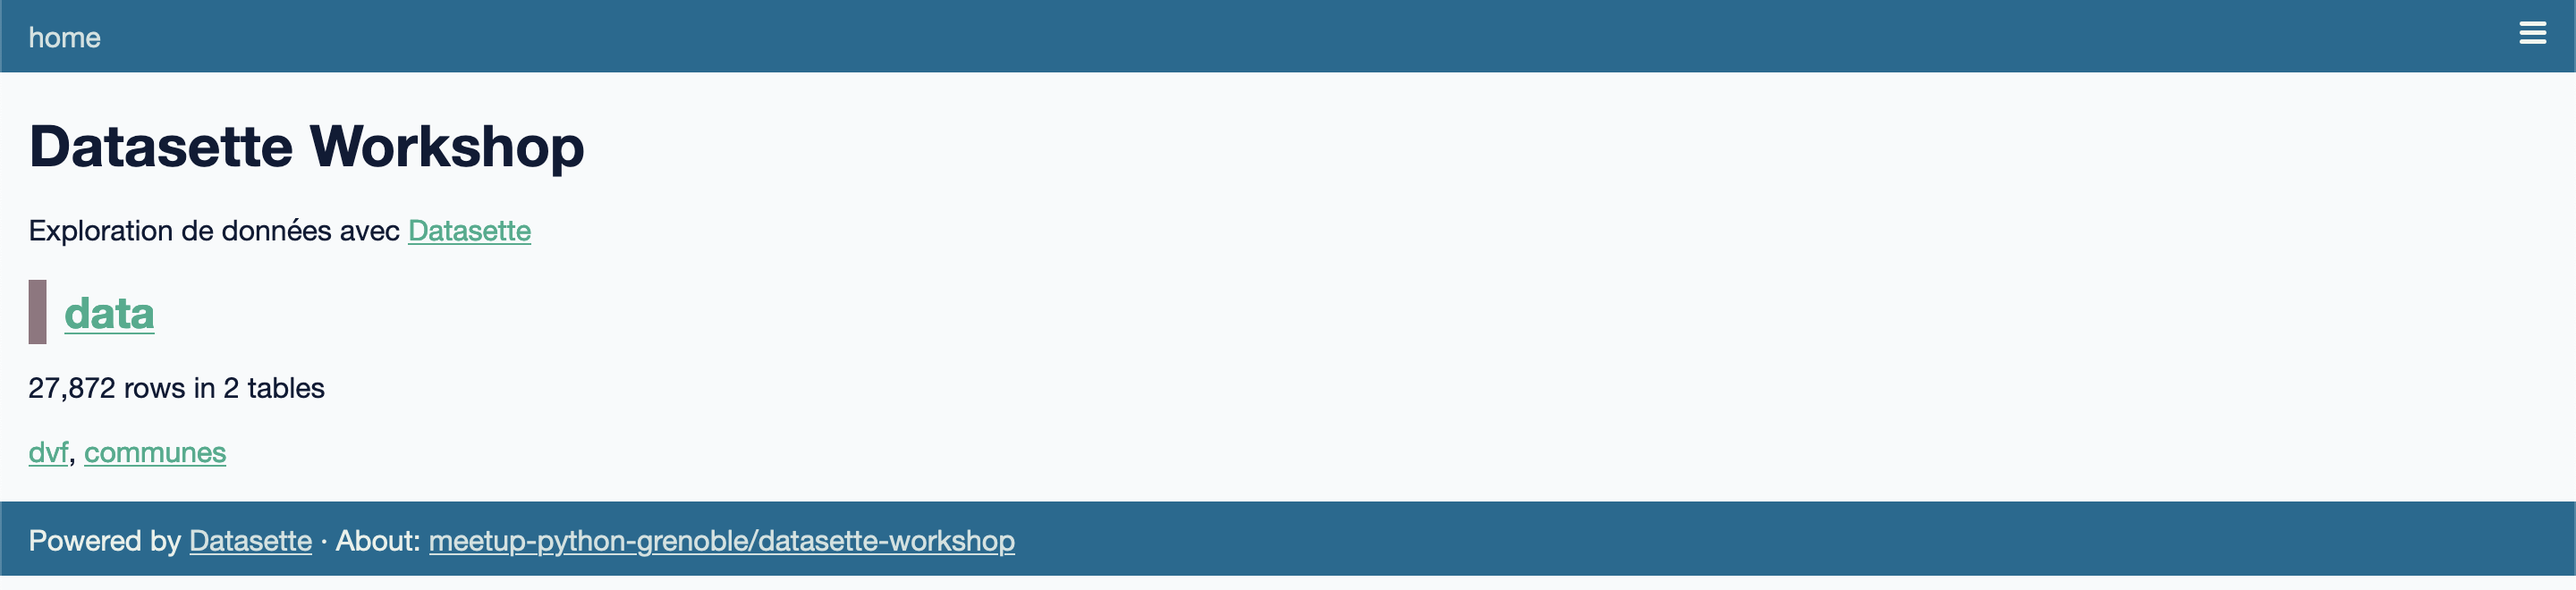
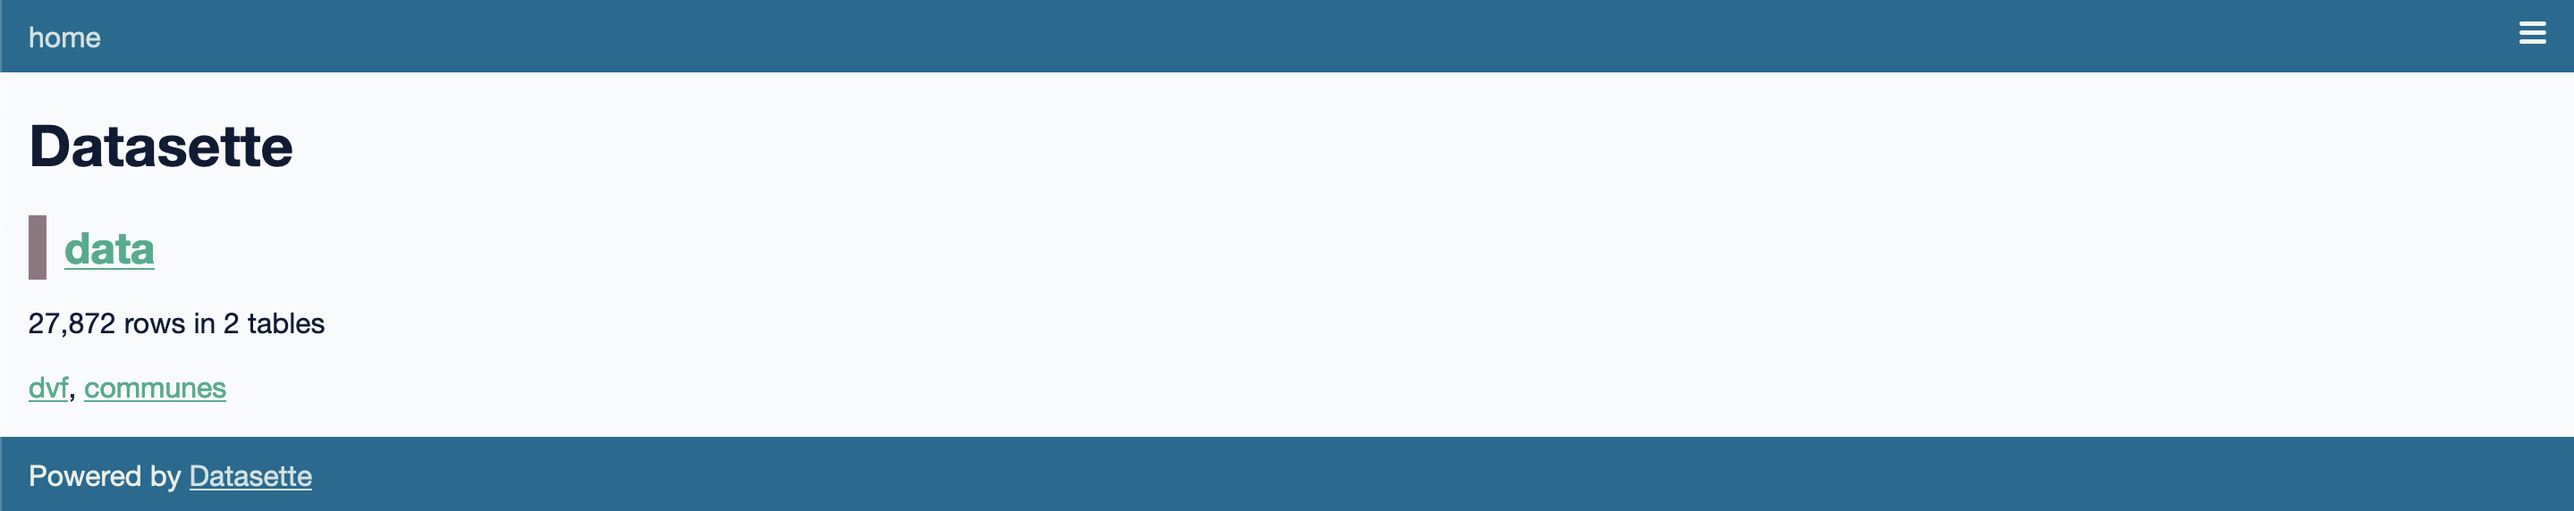
Update overview page

diff --git a/docs/overview.md b/docs/overview.md
@@ -1,4 +1,4 @@
-# Tour d'horizon de Datasette
+# Tour d'horizon
 
 Avant de commencer à analyser des données, prenons quelques minutes pour comprendre comment fonctionne Datasette. Pour obtenir tous les détails d'utilisation de Datasette, veuillez vous référer à la [documentation officielle](https://docs.datasette.io).
 
@@ -37,8 +37,81 @@ Nous utiliserons principalement cette vue pour [l'exploration de données](explo
 
 ## Métadonnées
 
-### Générales
+Datasette est configurable via un fichier de métadonnées au format JSON ou YAML. Pour lancer Datasette avec le fichier de métadonné de l'atelier `metadata.yml` :
 
-### Plugins
+```bash
+datasette --metadata metadata.yml data.db
+```
+
+La page d'accueil de Datasette est maintenant personnalisée :
+
+![Datasette Home](static/datasette_home_metadata.png)
+
+Voici le contenu du fichier `metadata.yml` permettant de personnaliser la page d'accueil :
+
+```yaml
+title: Datasette Workshop
+about: meetup-python-grenoble/datasette-workshop
+about_url: https://github.com/meetup-python-grenoble/datasette-workshop
+description_html: |-
+  Exploration de données avec <a href="https://datasette.io">Datasette</a>
+```
+
+Il est également possible d'annoter la base de données avec les sources et licences des données sous-jacentes :
+
+![Datasette Table](static/datasette_table_metadata.png)
+
+En ajoutant les métadonnées suivantes uniquement pour les tables `dvf` et `communes` de la base de données `data` :
+
+```yaml
+databases:
+  data:
+    tables:
+      dvf:
+        source: Demandes de valeurs foncières géolocalisées
+        source_url: https://www.data.gouv.fr/fr/datasets/demandes-de-valeurs-foncieres-geolocalisees/
+        license: Licence Ouverte / Open Licence version 2.0
+        license_url: https://www.etalab.gouv.fr/licence-ouverte-open-licence/
+      communes:
+        source: France Geojson
+        source_url: https://github.com/gregoiredavid/france-geojson/
+        license: Licence Ouverte / Open Licence version 2.0
+        license_url: https://www.etalab.gouv.fr/licence-ouverte-open-licence/
+```
+
+Beaucoup d'autres paramètres sont configurables via le fichier de métadonnées (descriptions et unités des colonnes, ordre de tri par défaut, etc.), veuillez vous référer à la [documentation officielle](https://docs.datasette.io/en/stable/metadata.html) pour plus de détails.
 
 ## Plugins
+
+L'application Datasette embarque un large panel de fonctionnalités générique mais en fonction des besoins, Datasette a besoin d'être augmenté avec des fonctionnalités additionnelles. Le [système de _plugins_](https://docs.datasette.io/en/stable/plugins.html) de Datasette permet à tous les développeurs de s'intégrer dans l'application pour proposer des fonctionnalités additionnelles, par exemple :
+
+- La visualisation de données
+- Accéder à de nouvelles fonctions SQL
+- Définir des formats d'export personnalisés
+- Personnaliser l'affichage de certains types de données dans l'interface
+- Ajouter des vues personnalisées
+- Ajouter des moyens d'authentification et d'autorisation
+- etc.
+
+Pour installer un plugin :
+
+```bash
+datasette install <plugin-name>
+```
+
+Pour lister les plugins installés :
+
+```bash
+datasette plugins
+```
+
+!!! note
+    Datasette embarque une liste de plugins pré-installés : la plupart des fonctionnalités de base de Datasette sont en réalité des plugins ! Pour lister tous les plugins y compris ceux distribués par défault : `datasette plugins --all`
+
+Pour désinstaller un plugin :
+
+```bash
+datasette uninstall <plugin-name>
+```
+
+La [liste de plugins référencés](https://datasette.io/plugins) s'agrandit régulièrement, vous trouverez très certainement votre bonheur ! Sinon, vous pouvez [développer votre propre plugin](https://docs.datasette.io/en/stable/writing_plugins.html).
